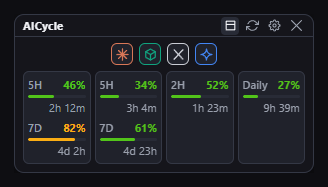
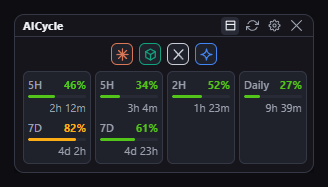
Size the compact window's width to its content too
Width was pinned at 300px while only height tracked content, so compact mode
stayed as wide with one provider as with four. autosize now carries width
alongside height, and the main process clamps it to 120..420.

Compact slots get a definite 68px width instead of flex: 1 1 0, so the row has a
real max-content width for .app.app-compact to size to; the title bar's own
content is the natural floor. Measured: 300px at four providers, 230 at three,
158 at two, 143 at one or none. Normal mode keeps its fixed 300px - its cards
are laid out for that width - so only the compact view shrinks.

The screenshot tool now measures width the same way rather than assuming 300.

diff --git a/src/main/index.ts b/src/main/index.ts
@@ -11,7 +11,11 @@ import { setLang, detectLang, getLang, t } from '../shared/i18n'
 let win: BrowserWindow | null = null
 let tray: Tray | null = null
 
+// Width is measured from content like height. Normal mode pins itself to 300 in
+// CSS; compact mode reports whatever its row needs, floored by the title bar.
 const WIDGET_W = 300
+const WIDGET_MIN_W = 120
+const WIDGET_MAX_W = 420
 // Low enough for compact mode (one row, possibly a single provider). Normal mode
 // always renders taller than this, so autosize still fits content in both modes.
 const WIDGET_MIN_H = 70
@@ -127,11 +131,12 @@ function registerIpc() {
     await pollOnce()
     return true
   })
-  ipcMain.on('autosize', (_e, height: number) => {
+  ipcMain.on('autosize', (_e, width: number, height: number) => {
     if (!win || win.isDestroyed()) return
     const h = Math.min(Math.max(Math.round(height), WIDGET_MIN_H), WIDGET_MAX_H)
-    const [, cur] = win.getSize()
-    if (Math.abs(cur - h) > 1) win.setContentSize(WIDGET_W, h)
+    const w = Math.min(Math.max(Math.round(width), WIDGET_MIN_W), WIDGET_MAX_W)
+    const [curW, cur] = win.getSize()
+    if (Math.abs(cur - h) > 1 || Math.abs(curW - w) > 1) win.setContentSize(w, h)
   })
   ipcMain.on('quit', () => app.quit())
 }

diff --git a/src/renderer/styles.css b/src/renderer/styles.css
@@ -29,7 +29,9 @@ html, body, #root {
 }
 
 .app {
-  width: 100%;
+  /* Fixed by default — cards are designed for this width. Compact mode opts into
+     shrinking to whatever its row actually needs (see .app-compact). */
+  width: 300px;
   background: var(--bg);
   border: 1px solid var(--border);
   border-radius: 10px;
@@ -224,7 +226,7 @@ html, body, #root {
 
 .crow { display: flex; gap: 4px; padding: 2px 8px 8px; -webkit-app-region: no-drag; }
 .cslot {
-  flex: 1 1 0; min-width: 0; cursor: pointer;
+  width: 68px; flex: none; cursor: pointer;
   background: var(--panel); border: 1px solid var(--border);
   border-radius: 6px; padding: 5px 4px;
   display: flex; flex-direction: column; gap: 5px;
@@ -240,3 +242,8 @@ html, body, #root {
 .cslot-empty { display: flex; flex-direction: column; align-items: center; gap: 2px; padding: 2px 0; }
 .cslot-dash { font-size: 12px; font-weight: 700; }
 .cslot-empty .cslot-when { text-align: center; }
+
+/* Compact mode sizes the window to its content: the row is as wide as the
+   enabled slots, floored by the title bar's own width. */
+.app.app-compact { width: max-content; max-width: 300px; }
+.app.app-compact .card-note { width: 120px; white-space: normal; }

diff --git a/src/renderer/App.tsx b/src/renderer/App.tsx
@@ -36,8 +36,8 @@ export default function App() {
   // Auto-size the window to fit the rendered content (any toggle combination).
   // Measured after every commit so it both grows and shrinks deterministically.
   useLayoutEffect(() => {
-    const h = rootRef.current?.getBoundingClientRect().height
-    if (h) window.aicycle.autosize(Math.ceil(h))
+    const box = rootRef.current?.getBoundingClientRect()
+    if (box?.height) window.aicycle.autosize(Math.ceil(box.width), Math.ceil(box.height))
   })
 
   if (!settings) return <div className="app loading" ref={rootRef}>{t('state.loading')}</div>
@@ -74,7 +74,7 @@ export default function App() {
   }
 
   return (
-    <div className="app" ref={rootRef}>
+    <div className={`app ${settings.compact ? 'app-compact' : ''}`} ref={rootRef}>
       <div className="drag-bar">
         <span className="title">AICycle</span>
         <div className="drag-actions">

diff --git a/src/preload/index.ts b/src/preload/index.ts
@@ -9,7 +9,7 @@ const api = {
     ipcRenderer.invoke('set-enabled', provider, enabled),
   patchSettings: (patch: Record<string, unknown>) =>
     ipcRenderer.invoke('patch-settings', patch),
-  autosize: (height: number) => ipcRenderer.send('autosize', height),
+  autosize: (width: number, height: number) => ipcRenderer.send('autosize', width, height),
   login: (provider: string) => ipcRenderer.invoke('login', provider),
   logout: (provider: string) => ipcRenderer.invoke('logout', provider),
   quit: () => ipcRenderer.send('quit'),

diff --git a/src/renderer/types.d.ts b/src/renderer/types.d.ts
@@ -52,7 +52,7 @@ declare global {
       refresh: () => Promise<Record<string, UsageSnapshot>>
       setEnabled: (provider: ProviderId, enabled: boolean) => Promise<Settings>
       patchSettings: (patch: Partial<Settings>) => Promise<Settings>
-      autosize: (height: number) => void
+      autosize: (width: number, height: number) => void
       login: (provider: ProviderId) => Promise<boolean>
       logout: (provider: ProviderId) => Promise<boolean>
       quit: () => void
